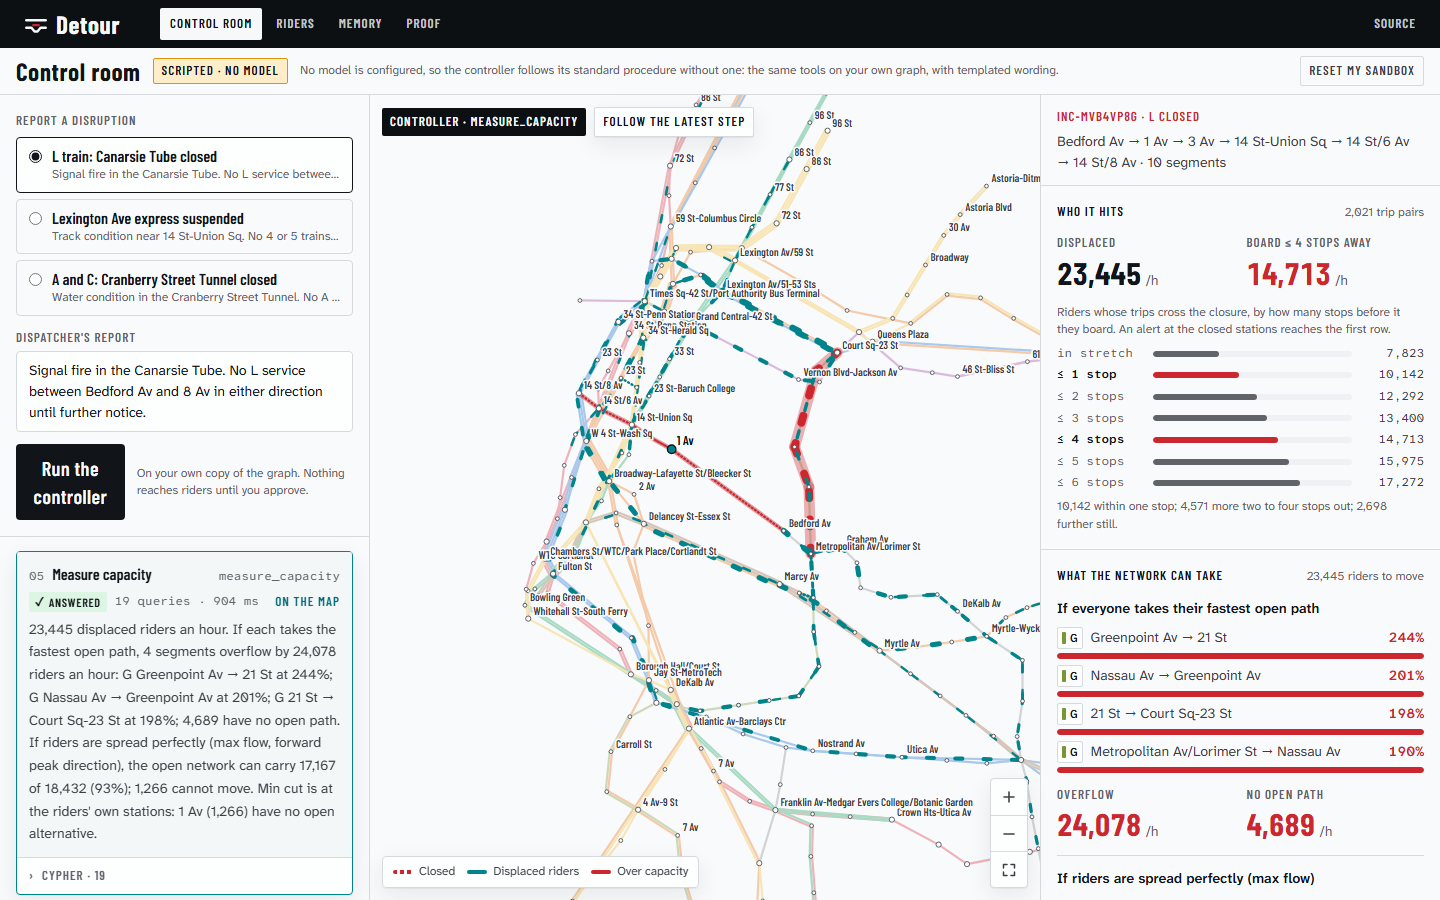
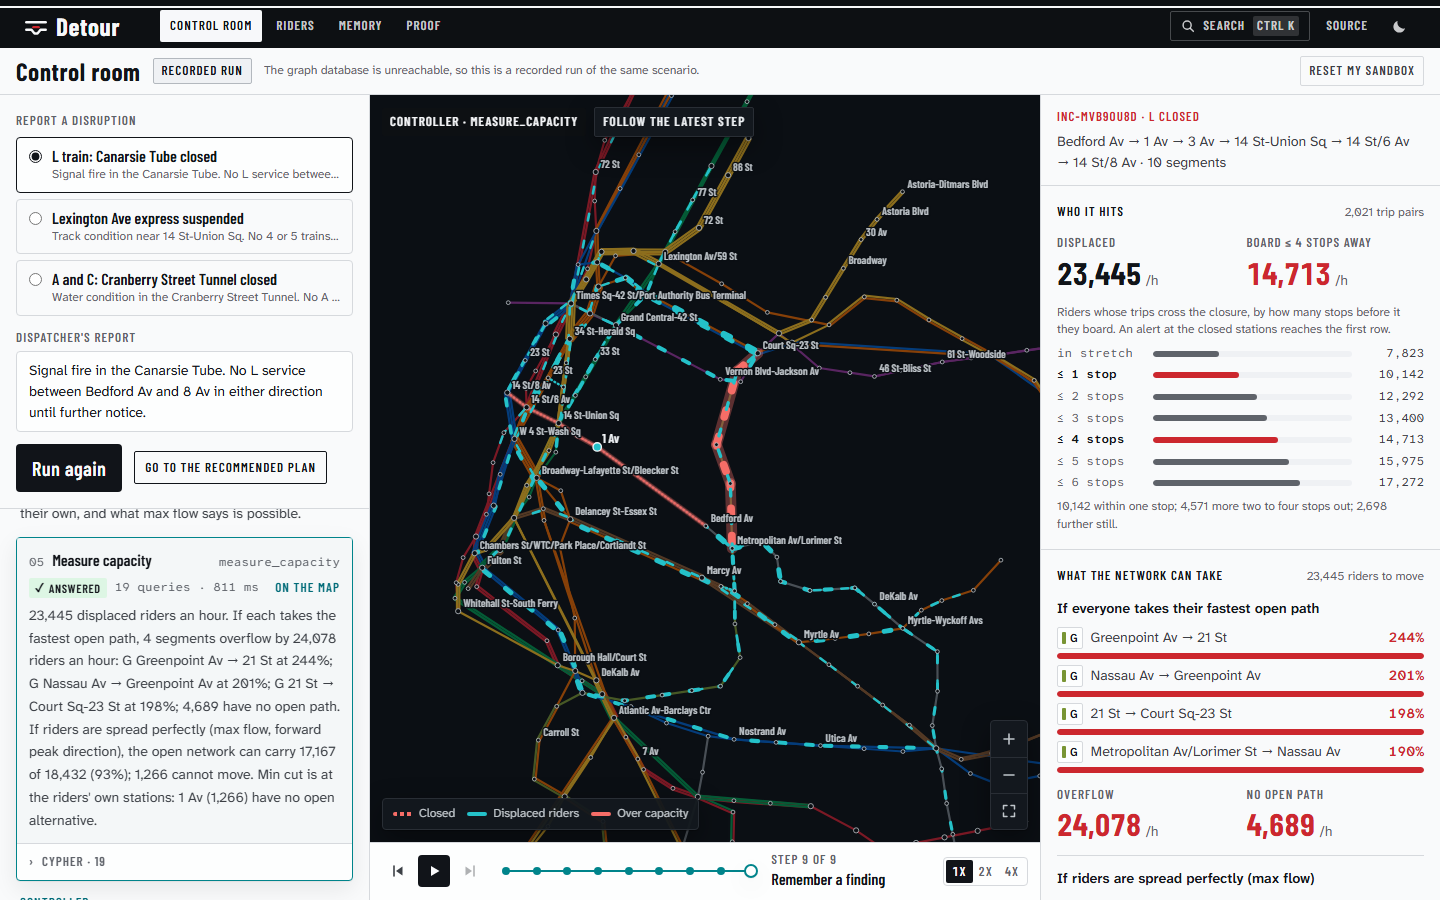
README media in the new design: story, night maps, playback, memory timeline
control-room.gif re-recorded in the dark theme with the playback bar; control-room, rider-desk and proof retaken; new home-story and memory-timeline images; the phone image is now the story's shuttle close-up. memory-changes-route.png waits for the live database (Aisha's elevator flip).

diff --git a/README.md b/README.md
@@ -63,10 +63,10 @@ With the shuttle, fastest-path overflow rises (24,078 → 28,762) because 4,066 
 
 <p align="center">
   <a href="https://detour-orpin.vercel.app/control?scenario=l-canarsie&run=1">
-    <img src="docs/images/control-room.gif" alt="A run of the L closure: the controller's tool calls stream in, the map shows each step's evidence, and the G overload and max flow appear with their numbers.">
+    <img src="docs/images/control-room.gif" alt="A run of the L closure in the dark theme: the controller's tool calls stream into the trace, the night map shows each step's evidence, the G overload and max flow appear with their numbers, and the playback bar counts the steps.">
   </a>
   <br>
-  <sub>The controller on the L closure: each tool call streams into the trace, and the map shows its evidence.</sub>
+  <sub>The controller on the L closure: each tool call streams into the trace, the night map shows its evidence, and the playback bar can replay any step.</sub>
 </p>
 
 ## On screen
@@ -322,27 +322,39 @@ CREATE (f)-[:SUPERSEDES]->(old)
 
 ## Screens
 
+<p align="center">
+  <img src="docs/images/home-story.png" alt="The home page's story on the night stage: chapter 02, Where they go, says the G runs at 244% of capacity while the sticky map shows displaced riders' fastest paths overloading the G in red.">
+  <br>
+  <sub><b>The story.</b> The home page tells the L closure chapter by chapter over one sticky night map; here the G runs at 244% of capacity.</sub>
+</p>
+
 <table>
   <tr>
     <td width="37%" rowspan="2" align="center">
-      <img src="docs/images/phone-dark.png" width="100%" alt="The control room on a phone in the dark theme, with the dispatcher's report, the run button and the flow map.">
+      <img src="docs/images/phone-dark.png" width="100%" alt="The story on a phone in the dark theme: the map's close-up of the shuttle between 1 Av and Astor Pl above the chapter card, riders with no path 4,689 to 623.">
       <br>
-      <sub><b>On a phone, in the dark theme.</b> The dispatcher's report, the run button and the flow map.</sub>
+      <sub><b>On a phone, at night.</b> The shuttle chapter: a close-up of the bridge above its card.</sub>
     </td>
     <td width="63%">
-      <img src="docs/images/control-room.png" width="100%" alt="The control room after closing the L: displaced riders' fastest paths overload the G (red), max flow moves 17,167 of 18,432 riders an hour, and the trace shows every tool call with its Cypher.">
+      <img src="docs/images/control-room.png" width="100%" alt="The control room after closing the L: displaced riders' fastest paths overload the G (red) on the night map, max flow moves 17,167 of 18,432 riders an hour, and the trace shows every tool call with its Cypher.">
       <br>
       <sub><b>Control room.</b> The G overloads in red, max flow moves 17,167 of 18,432 riders an hour, and the trace shows every tool call with its Cypher.</sub>
     </td>
   </tr>
   <tr>
     <td width="63%">
-      <img src="docs/images/rider-desk.png" width="100%" alt="After approval: two shuttle plans tested on forked graphs, the recommended one published to riders, and a rider agent routing Tomás around the closure.">
+      <img src="docs/images/rider-desk.png" width="100%" alt="After approval: two shuttle plans tested on forked graphs, the recommended one published to riders, a rider agent routing Tomás around the closure, and the playback bar at step 15 of 15.">
       <br>
       <sub><b>After approval.</b> Two shuttle plans tested on forks, the recommended one published, and a rider agent routing Tomás around the break.</sub>
     </td>
   </tr>
 </table>
+
+<p align="center">
+  <img src="docs/images/memory-timeline.png" alt="Memory over time on the memory page: each fact as a bar over its validity window, grouped by line, with the June 12 and September 3 incidents, a closed elevator fact, and the last three weeks drawn wider.">
+  <br>
+  <sub><b>Memory over time.</b> Every fact over its validity window; a closed fact keeps its window, and the last three weeks are drawn wider.</sub>
+</p>
 
 ## Use it from an agent
 
